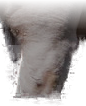
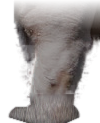
Bouledogue : pattes entières avec pieds, promenade sur tout l'écran
- Pieds reconstruits (la photo source a les pattes dans l'eau) :
  prolongement de la vraie fourrure, nettoyage des traces d'eau,
  texture de poils, pieds arrondis avec doigts.
- Le chien se promène sur toute la largeur de l'écran (pas / trot).
- La bulle suit le chien ; le ballon interrompt toujours la promenade.

Claude-Session: https://claude.ai/code/session_011WtJhsspiz3bQzCfpxMAF3

diff --git a/js/main.js b/js/main.js
@@ -234,9 +234,9 @@
     cball.innerHTML = FIG.ballSVG();
     const ballPat = cball.querySelector(".ball-pattern");
     const lines = P.chien.repliques || ["WOUF !"];
-    let li = 0, busy = false;
+    let li = 0, busy = false, chasing = false;
     const small = () => innerWidth < 640;
-    const dog = new DOG.Dog($("#dogCanvas"), { scale: small() ? 0.2 : 0.3, x: -300 });
+    const dog = new DOG.Dog($("#dogCanvas"), { scale: small() ? 0.2 : 0.3, x: -300, mover: dogEl });
     addEventListener("resize", () => dog.setScale(small() ? 0.2 : 0.3));
     const home = () => 8;
     const wait = ms => new Promise(r => setTimeout(r, ms));
@@ -267,8 +267,8 @@
       ballRaf = requestAnimationFrame(ballFollow);
     }
     async function chase() {
-      if (busy || reduceMotion || !document.body.classList.contains("entered")) return;
-      busy = true;
+      if (chasing || reduceMotion || !document.body.classList.contains("entered")) return;
+      chasing = busy = true;
       const W = innerWidth;
       ballX = dog.x + dog.width + 30; cball.style.opacity = "1"; ballFollow();
       bark(); await wait(350);
@@ -276,19 +276,18 @@
       cball.style.opacity = "0"; cancelAnimationFrame(ballRaf); ballX = null;
       dog.x = -dog.width - 60;                 // revient par la gauche
       await wait(600);
-      await dog.moveTo(home(), TROT());
+      await dog.moveTo(home() + Math.random() * innerWidth * 0.4, TROT());
       await wait(250); bark();
-      busy = false;
+      chasing = busy = false;
     }
-    async function stroll() {                  // petite promenade spontanée
-      if (busy || reduceMotion || document.hidden || !document.body.classList.contains("entered")) return;
+    async function stroll() {                  // promenade : il traverse l'écran au pas, s'arrête, repart
+      if (busy || chasing || reduceMotion || document.hidden || !document.body.classList.contains("entered")) return;
       busy = true;
-      const far = Math.min(innerWidth * 0.35, small() ? 140 : 320) * (0.5 + Math.random() * 0.5);
-      await dog.moveTo(home() + far, WALK());
-      await wait(900 + Math.random() * 1200);
-      await dog.moveTo(home(), WALK());
-      dog.face = 1;
-      busy = false;
+      const maxX = Math.max(home(), innerWidth - dog.width - 8);
+      let to = home() + Math.random() * (maxX - home());
+      if (Math.abs(to - dog.x) < innerWidth * 0.2) to = dog.x > maxX / 2 ? home() + Math.random() * maxX * 0.3 : maxX - Math.random() * maxX * 0.3;
+      await dog.moveTo(to, Math.random() < 0.25 ? TROT() : WALK());
+      if (!chasing) busy = false;
     }
     addEventListener("ball-kick", () => setTimeout(chase, 250));
     const arrive = () => setTimeout(async () => {
@@ -301,7 +300,7 @@
       const mo = new MutationObserver(() => { if (document.body.classList.contains("entered")) { mo.disconnect(); arrive(); } });
       mo.observe(document.body, { attributes: true, attributeFilter: ["class"] });
     }
-    setInterval(stroll, 17000);
+    setInterval(stroll, 6500);
     setInterval(() => { if (!document.hidden && Math.random() < 0.5) chase(); }, 70000);
   })();
 

diff --git a/js/dog.js b/js/dog.js
@@ -4,11 +4,11 @@
    demi-tour, saut d'aboiement. Le ballon est poussé devant lui.
    ===================================================================== */
 window.DOG = (() => {
-  const RIG = { // repère de la photo source (490 × 299), le chien regarde à gauche
-    w: 490, h: 299,
+  const RIG = { // repère de la photo source, le chien regarde à gauche (pattes prolongées jusqu'aux pieds)
+    w: 490, h: 318,
     legs: {
-      front: { x: 160, y: 193, w: 86, h: 106, px: 204, py: 196 },
-      back:  { x: 385, y: 179, w: 87, h: 102, px: 430, py: 182 },
+      front: { x: 146, y: 193, w: 100, h: 123, px: 204, py: 196 },
+      back:  { x: 371, y: 179, w: 101, h: 137, px: 430, py: 182 },
     },
   };
   const SRC = {
@@ -23,6 +23,7 @@ window.DOG = (() => {
   class Dog {
     constructor(host, opts = {}) {
       this.host = host;
+      this.mover = opts.mover || host;   // élément déplacé à l'écran (le chien + sa bulle)
       this.scale = opts.scale || 0.3;
       this.canvas = document.createElement("canvas");
       this.ctx = this.canvas.getContext("2d");
@@ -84,7 +85,7 @@ window.DOG = (() => {
       const stride = this.speed / (this.scale * 260);
       this.phase += dt * Math.PI * 2 * Math.min(4.6, stride * 1.6);
       this.hop = Math.max(0, this.hop - dt * 2.2);
-      this.host.style.transform = `translateX(${this.x - PAD_X * this.scale}px)`;
+      this.mover.style.transform = `translateX(${this.x - PAD_X * this.scale}px)`;
       if (this.img) this._draw();
       requestAnimationFrame(this._tick);
     }
@@ -102,7 +103,7 @@ window.DOG = (() => {
       ctx.setTransform(this.dpr, 0, 0, this.dpr, 0, 0);
       ctx.clearRect(0, 0, this.cw, this.ch);
       // ombre au sol
-      const gy = (PAD_TOP + RIG.h - 4) * s;
+      const gy = (PAD_TOP + RIG.h - 6) * s;
       ctx.save();
       ctx.fillStyle = `rgba(0,0,0,${0.28 - hopY / 400})`;
       ctx.beginPath(); ctx.ellipse(this.cw / 2, gy, RIG.w * 0.38 * s * (1 - hopY / 200), 9 * s + 3, 0, 0, Math.PI * 2); ctx.fill();
